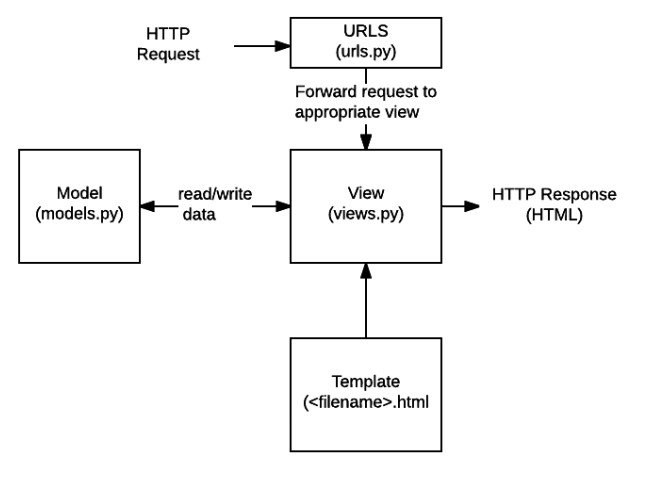
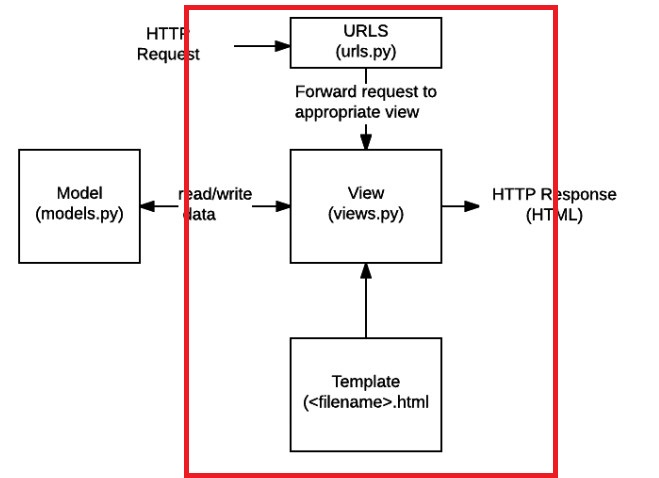
update readme

Changed region(s): [[0.2731, 0.0, 0.8498, 1.0]]

diff --git a/README.md b/README.md
@@ -4,7 +4,7 @@
 此專案有包含 template html 實作 Loing In Page 網頁登入的操作。
 
 程式內 authenticate, login, logout, update_session_auth_hash 使用到的都是 Django 內建的涵式.  Django 強大的框架提供了很多實作的方法. 
-
+此專案主要包含以下紅框的部分
 ![Screenshot](./readme_pic/django.jpg)
 # 執行專案專案步驟 : 
 ### 進入 pythn virtualenv
